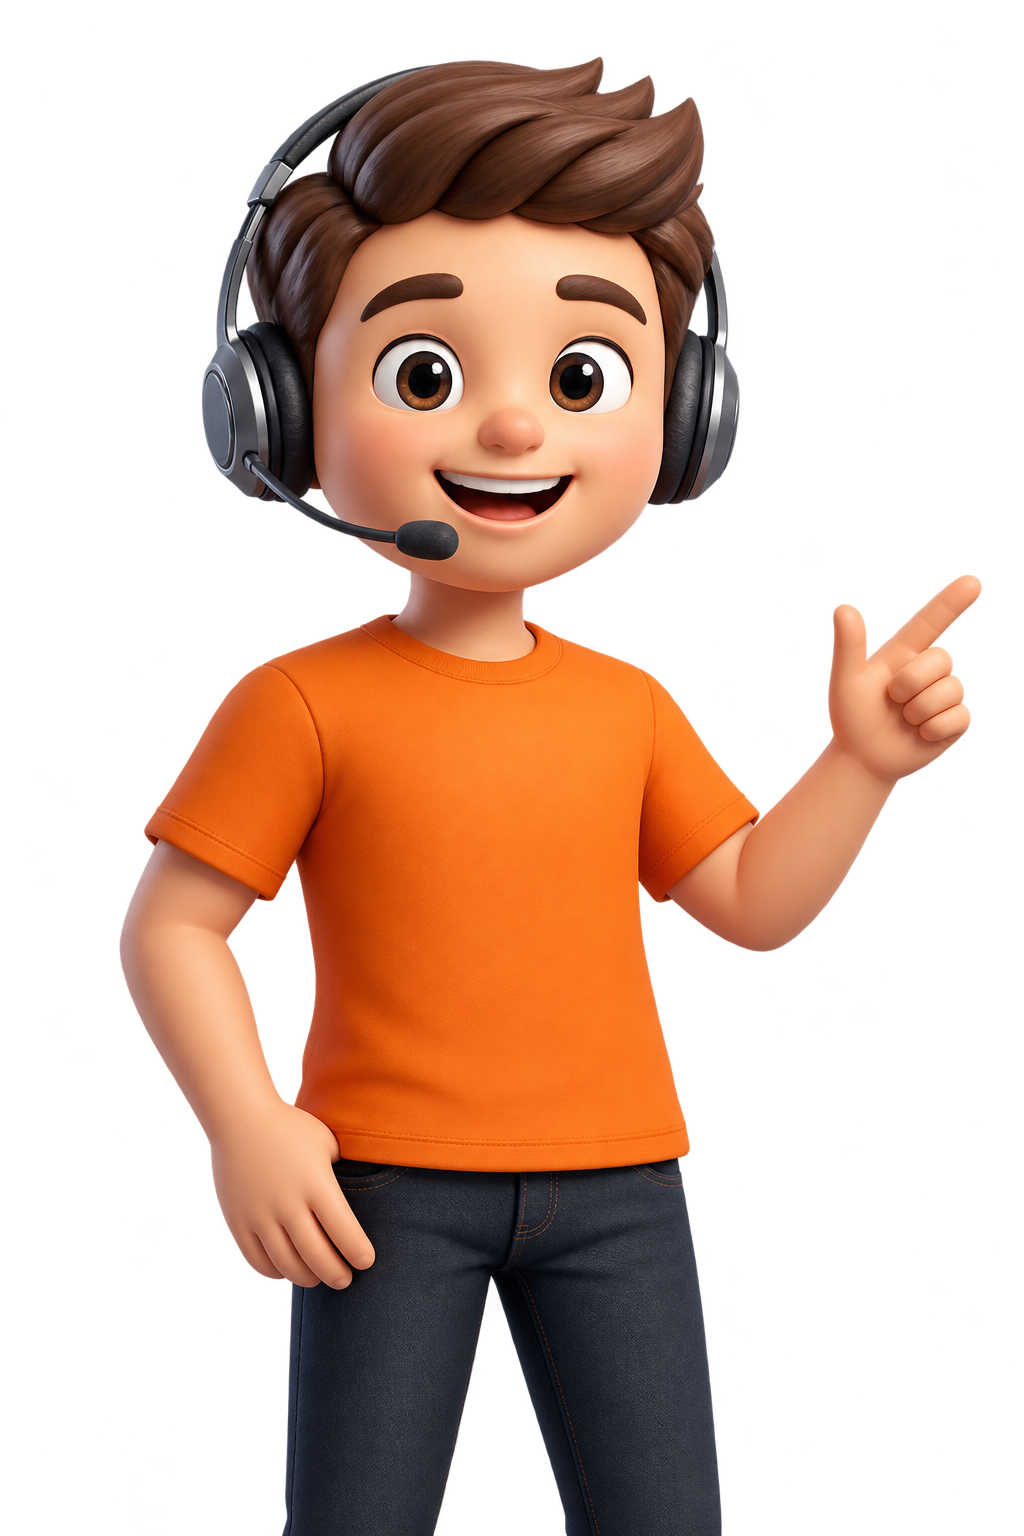
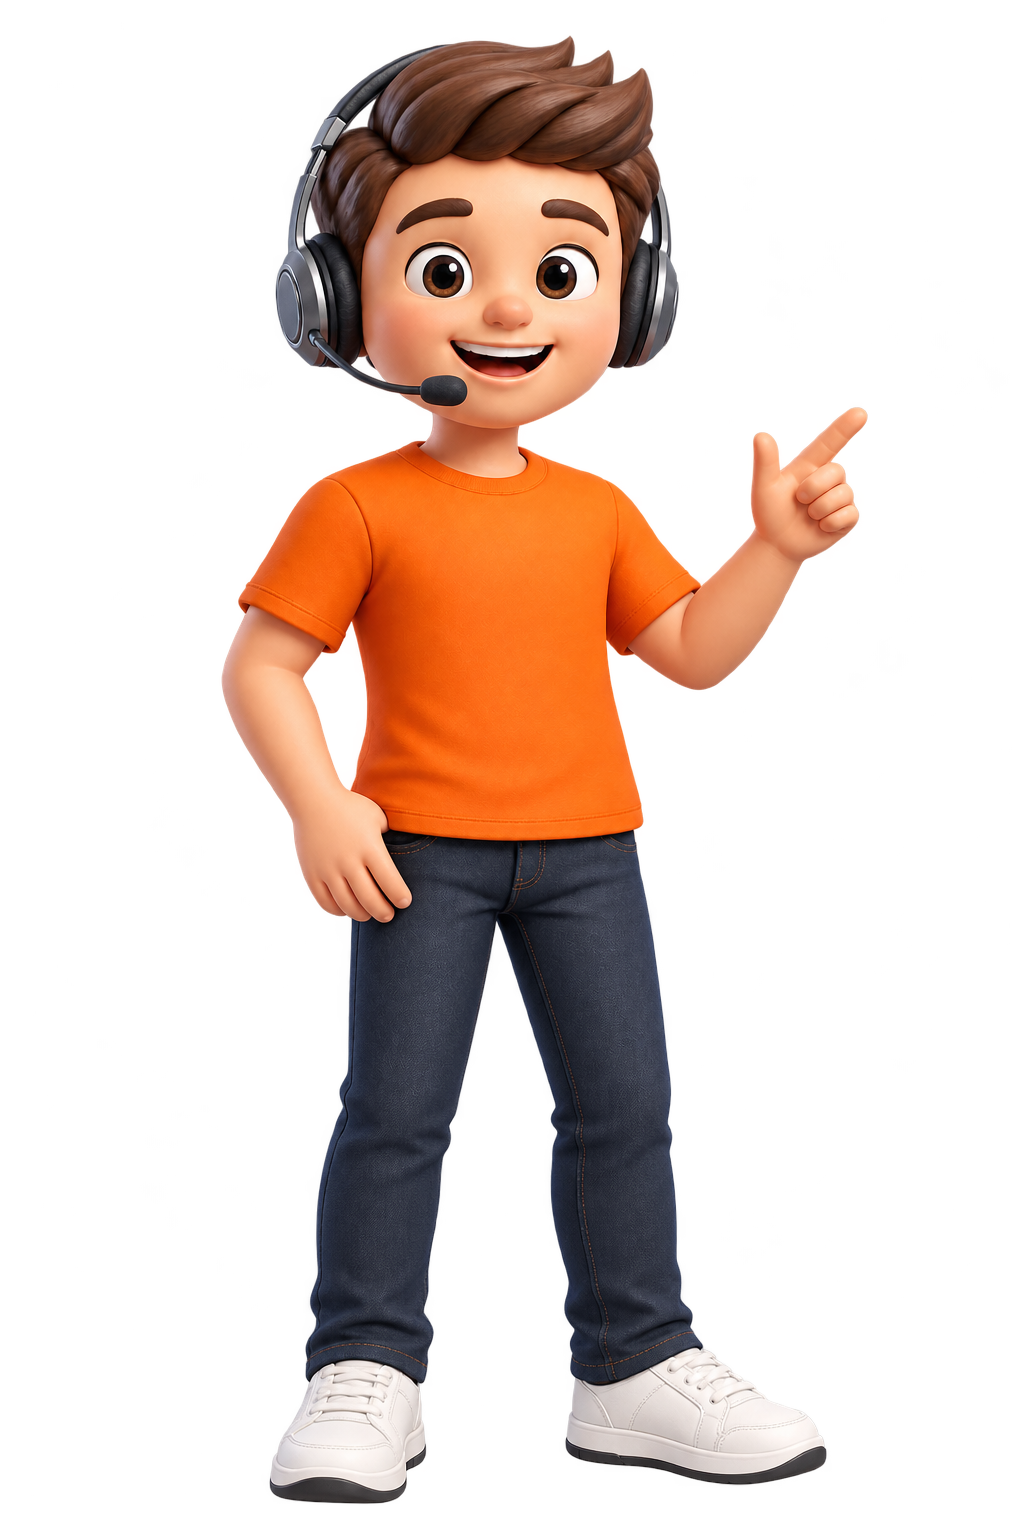
full body mascot

diff --git a/index.html b/index.html
@@ -1,1 +1,18 @@
-<!doctype html><html lang="id"><head><meta charset="UTF-8"/><meta name="viewport" content="width=device-width, initial-scale=1.0"/><meta name="theme-color" content="#d8e5eb"/><meta name="description" content="Automasi bisnis, chatbot WhatsApp, bot Telegram, dan integrasi API sesuai kebutuhan bisnis Anda. Konsultasi gratis bersama dicodinginAJA."/><title>dicodinginAJA — Biar sistem yang kerja.</title></head><body><div id="root"></div><script type="module" src="/src/main.jsx"></script></body></html>
+<!doctype html>
+<html lang="id">
+  <head>
+    <meta charset="UTF-8" />
+    <meta name="viewport" content="width=device-width, initial-scale=1.0" />
+    <meta name="theme-color" content="#d8e5eb" />
+    <meta
+      name="description"
+      content="Automasi bisnis, chatbot WhatsApp, bot Telegram, dan integrasi API sesuai kebutuhan bisnis Anda. Konsultasi gratis bersama dicodinginAJA."
+    />
+    <title>dicodinginAJA - Biar sistem yang kerja.</title>
+    <link rel="icon" type="image/x-icon" href="/assets/logo.png" />
+  </head>
+  <body>
+    <div id="root"></div>
+    <script type="module" src="/src/main.jsx"></script>
+  </body>
+</html>
